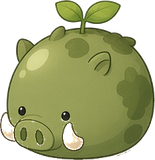
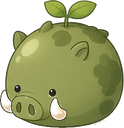
画面：缩小占位图，镜头不露出地图外
头像收到界面上的 96 像素，圆外保持透明。角色贴图收到约 128。镜头停在外墙内，清屏色不再露在屏幕边上。

diff --git a/tools/art/make_placeholders.py b/tools/art/make_placeholders.py
@@ -53,12 +53,21 @@ def crop_box(src, box, pad=6):
     return im.crop((x0, y0, x1, y1))
 
 
-def circle_crop(im, size=256):
-    im = im.resize((size, size), Image.Resampling.LANCZOS)
+def circle_cover(im, size=96):
+    """圆内留下原来的透明，不把空像素涂成不透明黑。"""
+    im = im.convert("RGBA")
+    scale = size / max(im.size)
+    nw = max(1, int(round(im.width * scale)))
+    nh = max(1, int(round(im.height * scale)))
+    im = im.resize((nw, nh), Image.Resampling.LANCZOS)
+    plate = Image.new("RGBA", (size, size), (0, 0, 0, 0))
+    plate.paste(im, ((size - nw) // 2, (size - nh) // 2), im)
     mask = Image.new("L", (size, size), 0)
-    ImageDraw.Draw(mask).ellipse((1, 1, size - 2, size - 2), fill=255)
-    im.putalpha(mask)
-    return im
+    ImageDraw.Draw(mask).ellipse((0, 0, size - 1, size - 1), fill=255)
+    r, g, b, a = plate.split()
+    aa = np.minimum(np.array(a), np.array(mask))
+    plate.putalpha(Image.fromarray(aa, "L"))
+    return plate
 
 
 def drop_shadow(im):
@@ -84,7 +93,7 @@ def tighten(im, max_side=160):
     return im
 
 
-def save(im, path, max_side=160):
+def save(im, path, max_side=128):
     im = tighten(im, max_side)
     im.save(path)
     print(path, im.size)
@@ -164,13 +173,12 @@ def main():
     hero = Image.open(os.path.join(ART, "hero_sheet_v2.jpg")).convert("RGB")
     mobs = Image.open(os.path.join(ART, "mossroot_basic3_v2.jpg")).convert("RGB")
     # 高俯视 3/4 那一格，当作局内占位。不带下排的尘土和剑光
-    save(drop_shadow(crop_box(hero, (900, 40, 1240, 340), 8)), os.path.join(ACT, "hero.png"))
-    # 头像：正面的头和围巾
+    save(drop_shadow(crop_box(hero, (900, 40, 1240, 340), 8)), os.path.join(ACT, "hero.png"), 128)
+    # 头像按界面上的 96 像素出图，圆外保持透明
     head = crop_box(hero, (60, 8, 280, 190), 4)
-    side = max(head.size)
-    plate = Image.new("RGBA", (side, side), (0, 0, 0, 0))
-    plate.paste(head, ((side - head.width) // 2, (side - head.height) // 2), head)
-    save(circle_crop(plate, 256), os.path.join(HUD, "portrait.png"), 256)
+    portrait = circle_cover(head, 96)
+    portrait.save(os.path.join(HUD, "portrait.png"))
+    print(os.path.join(HUD, "portrait.png"), portrait.size)
     # 上排站姿。下排有尘土、箭头和弹，不用
     save(drop_shadow(crop_box(mobs, (80, 80, 460, 350), 8)), os.path.join(ACT, "slime.png"))
     save(drop_shadow(crop_box(mobs, (470, 30, 850, 350), 8)), os.path.join(ACT, "boar.png"))
